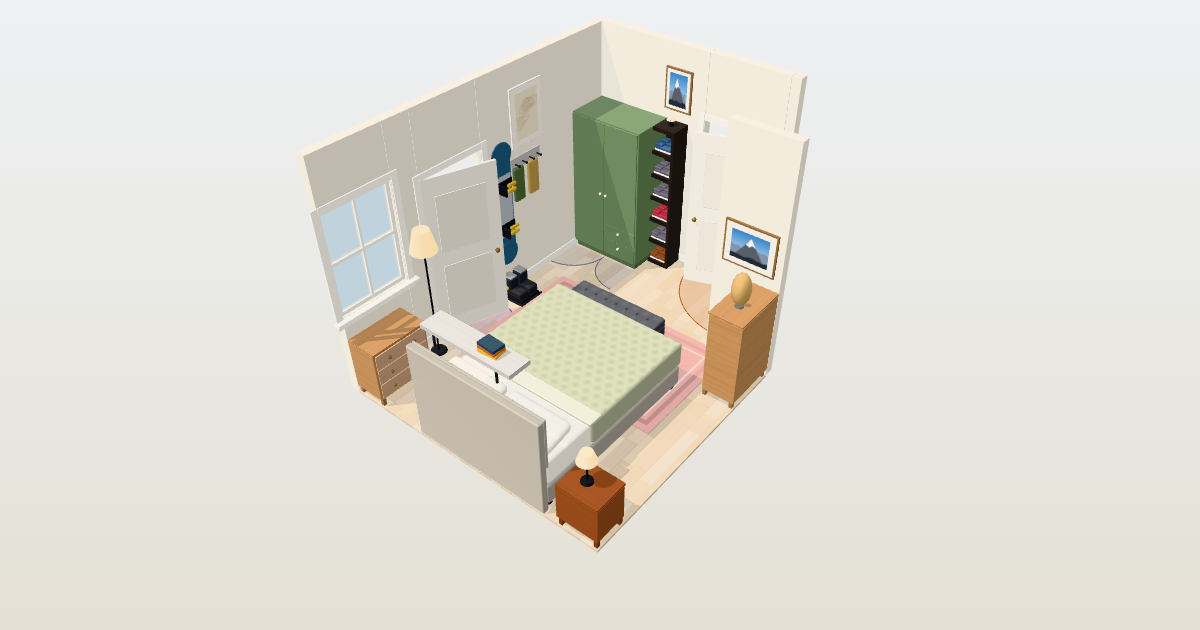
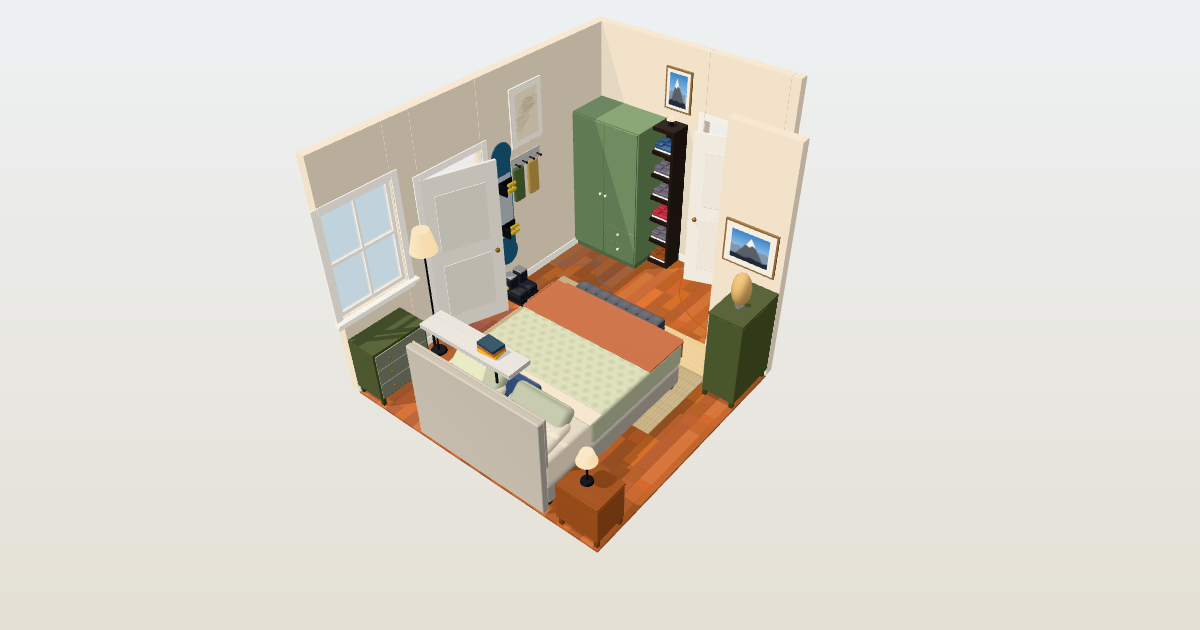
feat(palette): Clay and indigo
The walls stay cream (rented, can't be painted); THEME in core.js holds
the palette. The bed wears Femi's linen sheets and sleeping pillows,
sage shams to match the comforter, an indigo pillow echoing his Adire,
and a terracotta throw folded over the foot. Rugs are natural jute,
the planned chests are painted deep olive (matte, no grain), the bean
bag is terracotta, and the floor matches his orange-brown fir boards.
Previews retaken.

Changed region(s): [[0.2775, 0.3921, 0.6475, 0.8746], [0.4008, 0.754, 0.4317, 0.7841], [0.37, 0.7238, 0.4008, 0.754]]

diff --git a/site/core.js b/site/core.js
@@ -26,7 +26,7 @@ const PRESETS = [
   ["Armchair", 32, 34, 32, 0, "#7fae8f", true, "chair"], ["Rug", 96, 60, 0.5, 0, "#d9a5a0", false, "rug"],
   ["Wall shelf", 36, 8, 2, 60, "#a8a29e", true, "other"], ["Mirror", 24, 1, 60, 12, "#9fc5d8", true, "mirror"],
   ["Floor lamp", 12, 12, 64, 0, "#e3c66b", true, "lamp"], ["Table lamp", 10, 10, 18, 0, "#e3c66b", true, "lamp"], ["Plug-in sconce", 6, 4, 12, 46, "#e3c66b", true, "sconce"],
-  ["Ladder shelf", 24, 16, 72, 0, "#b08a62", true, "ladder"], ["Bean bag", 36, 34, 26, 0, "#a65d3f", true, "beanbag"],
+  ["Ladder shelf", 24, 16, 72, 0, "#b08a62", true, "ladder"], ["Bean bag", 36, 34, 26, 0, "#b5653f", true, "beanbag"],
   ["Snowboard wall rack", 12, 8, 63, 16, "#2f5d7c", true, "board"], ["Snowboard boots on a tray", 14, 15, 12, 0, "#2b2d33", true, "boots"],
   ["Framed art", 24, 1, 30, 50, "#efe4cc", true, "art"], ["Wall hanging", 30, 1, 45, 40, "#3f5f9e", true, "textile"], ["Peg rail with gear", 36, 2, 20, 50, "#c9b592", true, "pegs"],
   ["Custom box", 24, 24, 24, 0, "#bdbdbd", true, "other"]
@@ -34,9 +34,13 @@ const PRESETS = [
 const KINDS = { bed: "Bed", bench: "Bench", ottoman: "Upholstered storage bench", dresser: "Dresser / drawers", wardrobe: "Wardrobe", rack: "Clothes rack", shoe: "Shoe storage",
   nightstand: "Nightstand", shelf: "Shelving", ladder: "Ladder shelf", beanbag: "Bean bag", board: "Snowboard on a wall rack", boots: "Snowboard boots", chair: "Chair", rug: "Rug", mirror: "Mirror",
   art: "Framed art", textile: "Wall hanging", pegs: "Peg rail with gear", lamp: "Lamp", sconce: "Wall sconce", plant: "Plant", other: "Plain box" };
+// Femi's palette, Clay and indigo. The walls are rented cream plaster and can't be painted, so the
+// colour comes from what he owns (sage wardrobe and comforter, wood, cane, black-brown) plus a
+// terracotta throw and bean bag, an indigo pillow echoing his Adire, jute rugs and olive-painted chests.
+const THEME = { name: "Clay and indigo", walls: "#eadfcc", floor: "#9a5530", sheets: "#ddd3c1", throw: "#b5653f", accent: "#2f4a7a" };
 // Starting points that ship with the page.
-const KIND_COLOR = { bed: "#a9ae95", bench: "#a9825a", ottoman: "#4a4d55", dresser: "#b98b5e", wardrobe: "#6b8462", rack: "#9aa3ad", shoe: "#2a2421",
-  nightstand: "#8b4a24", shelf: "#9c7b55", ladder: "#b08a62", beanbag: "#a65d3f", board: "#2f5d7c", boots: "#2b2d33", chair: "#7fae8f", rug: "#d9a5a0", mirror: "#9fc5d8", lamp: "#e3c66b", sconce: "#e3c66b", plant: "#7fae8f",
+const KIND_COLOR = { bed: "#a9ae95", bench: "#a9825a", ottoman: "#4a4d55", dresser: "#4b5638", wardrobe: "#6b8462", rack: "#9aa3ad", shoe: "#2a2421",
+  nightstand: "#8b4a24", shelf: "#9c7b55", ladder: "#b08a62", beanbag: "#b5653f", board: "#2f5d7c", boots: "#2b2d33", chair: "#7fae8f", rug: "#c8b48a", mirror: "#9fc5d8", lamp: "#e3c66b", sconce: "#e3c66b", plant: "#7fae8f",
   art: "#efe4cc", textile: "#3f5f9e", pegs: "#c9b592", other: "#bdbdbd" };
 // [name, kind, x, y, width, depth, height, off floor, headboard side]
 const pc = ([name, kind, x, y, w, d, h, z = 0, headSide = ""], i) => ({ id: kind + i, name, kind, x, y, w, d, h, z, color: KIND_COLOR[kind],
@@ -47,7 +51,7 @@ const BUILTIN = [
     "Bed turned with its head on the east wall and its foot toward the window, so the middle of the room is one open floor. Your green VILHATTEN wardrobe fills the north-west corner facing south, with the black LACK shoe shelf beside it and clear of the door swing. Its doors open onto clear floor: the MALM tall chest starts on the west wall just past them. A ladder shelf leans on the in-push facing south, under the summit photos. Your wood nightstand stands at the head of the bed's open side. The bench sits across the foot of the bed. The snowboard hangs upright on the south wall at the window end of the bench, with its boots on a tray under it, so it sits in the dead end beside the floor lamp. No ceiling light: a floor lamp stands in the window corner, a plug-in swing-arm sconce over the bed's head corner, just above the headboard, is the reading light, and your BÖJA, Mika and PELARBOJ lamps sit on the chest, the nightstand and the top of the shoe shelf. Tightest walkway is 27 in, between the bench and the window wall; the lamp sits at its dead end.", [
     ["Bed", "bed", 43, 98, 86, 66, 24, 0, "E"], [BENCH, "ottoman", 27, 117, 16, 46, 18],
     ["VILHATTEN wardrobe, green", "wardrobe", 0, 0, 38.625, 22.5, 74.75], ["LACK shoe shelf, black-brown", "shoe", 38.625, 0, 11.75, 11, 74.75],
-    ["MALM 6-drawer tall chest", "dresser", 0, 44, 18.875, 31.5, 48.375],
+    ["MALM 6-drawer tall chest, painted olive", "dresser", 0, 44, 18.875, 31.5, 48.375],
     ["Ladder shelf", "ladder", 101, 48, 24, 16, 72], ["Your nightstand, rattan drawer", "nightstand", 112, 81, 17, 17, 22], ["Jute rug 5'3 x 7'7", "rug", 36, 48, 90.5, 63, 0.5],
     ["Floor lamp", "lamp", 1, 151, 12, 12, 64], ["Snowboard wall rack", "board", 14, 156, 12, 8, 63, 16], ["Snowboard boots on a tray", "boots", 13, 149, 14, 15, 12], ["Plug-in swing-arm sconce", "sconce", 125, 99, 4, 6, 12, 46], ["Mika cactus lamp (yours)", "lamp", 116, 85, 8, 8, 15, 22],
     ["BÖJA table lamp (yours)", "lamp", 5.375, 55.875, 8, 8, 16, 48.375], ["PELARBOJ glow lamp (yours)", "lamp", 42.25, 3, 4.5, 4.5, 4, 74.75],
@@ -55,9 +59,9 @@ const BUILTIN = [
   layout("a1", "Corner bed, maximum storage", "most storage",
     "Bed in the south-east corner. Your green VILHATTEN wardrobe in the north-west corner takes hanging clothes with the black LACK shoe shelf beside it, and a 63 in MALM dresser sits under the window and doubles as the nightstand. Bench stays at the foot. The snowboard hangs upright on the east wall in the corner by the in-push, its boots on a tray under it. No ceiling light: a floor lamp stands just north of the bed's foot corner, a plug-in swing-arm sconce on the south wall, just above the headboard's open corner, is the reading light, and your BÖJA and Mika lamps sit on the dresser with the PELARBOJ on top of the shoe shelf. Main walkway is 51 in; the tightest spot is 24 in in front of the wardrobe doors. The bed is reachable from one side only and the north-west corner is furniture-heavy.", [
     ["Bed", "bed", 63, 78, 66, 86, 24, 0, "S"], [BENCH, "ottoman", 64, 62, 46, 16, 18],
-    ["VILHATTEN wardrobe, green", "wardrobe", 0, 0, 38.625, 22.5, 74.75], ["MALM 6-drawer dresser", "dresser", 0, 145.125, 63, 18.875, 30.75],
+    ["VILHATTEN wardrobe, green", "wardrobe", 0, 0, 38.625, 22.5, 74.75], ["MALM 6-drawer dresser, painted olive", "dresser", 0, 145.125, 63, 18.875, 30.75],
     ["LACK shoe shelf, black-brown", "shoe", 38.625, 0, 11.75, 11, 74.75], ["Hook rail", "other", 104, 48, 18.875, 3.5, 5.5, 62],
-    ["Runner rug 30 x 84", "rug", 28, 55, 30, 84, 0.5],
+    ["Jute runner 30 x 84", "rug", 28, 55, 30, 84, 0.5],
     ["Floor lamp", "lamp", 117, 65, 12, 12, 64], ["Snowboard wall rack", "board", 121, 52, 8, 12, 63, 16], ["Snowboard boots on a tray", "boots", 115, 51, 14, 14, 12], ["Plug-in swing-arm sconce", "sconce", 63, 160, 6, 4, 12, 46], ["BÖJA table lamp (yours)", "lamp", 51.875, 150.875, 8, 8, 16, 30.75],
     ["Mika cactus lamp (yours)", "lamp", 4, 150, 8, 8, 15, 30.75], ["PELARBOJ glow lamp (yours)", "lamp", 42.25, 3, 4.5, 4.5, 4, 74.75],
     ["Yosemite panorama", "art", 72, 163, 48, 1, 32, 54], ["Trip photo grid", "art", 8, 163, 48, 1, 28, 38], ["Adire wall hanging", "textile", 128, 90, 1, 30, 40, 48], ["Framed topo map", "art", 0, 53, 1, 24, 28, 44], ["Summit photo", "art", 37.5, 0, 14, 1, 20, 80]]),
@@ -65,9 +69,9 @@ const BUILTIN = [
     "Bed stays almost where it is, so you can get in from either side: 38 in on the west (22 in beside the low chest under the window), 25 in on the east. Your green VILHATTEN wardrobe in the north-west corner with the black LACK shoe shelf beside it, a narrow KULLEN 5-drawer chest south of the in-push, a low KULLEN 3-drawer chest under the window, a nightstand and a shelf over the headboard. The snowboard hangs upright on the west wall just north of the closet door, its boots on a tray under it. No ceiling light: a pair of plug-in swing-arm sconces sit just above the headboard's two corners, a floor lamp stands on the west wall between the closet door and the window, and your BÖJA, Mika and PELARBOJ lamps sit on the tall chest, the nightstand and the top of the shoe shelf. Bench keeps its place at the foot. Tightest walkway is 22 in.", [
     ["Bed", "bed", 38, 78, 66, 86, 24, 0, "S"], [BENCH, "ottoman", 39, 62, 46, 16, 18],
     ["VILHATTEN wardrobe, green", "wardrobe", 0, 0, 38.625, 22.5, 74.75], ["LACK shoe shelf, black-brown", "shoe", 38.625, 0, 11.75, 11, 74.75],
-    ["KULLEN 5-drawer chest", "dresser", 113.25, 48, 15.75, 27.5, 44.125], ["KULLEN 3-drawer chest", "dresser", 0, 136.5, 15.75, 27.5, 28.375], ["MALM 2-drawer nightstand", "nightstand", 110.125, 148.25, 18.875, 15.75, 21.625],
+    ["KULLEN 5-drawer chest, painted olive", "dresser", 113.25, 48, 15.75, 27.5, 44.125], ["KULLEN 3-drawer chest, painted olive", "dresser", 0, 136.5, 15.75, 27.5, 28.375], ["MALM 2-drawer nightstand", "nightstand", 110.125, 148.25, 18.875, 15.75, 21.625],
     ["Wall shelf over bed", "other", 49, 153.75, 43.25, 10.25, 2, 60], ["Hook rail", "other", 0, 46.5, 3.5, 18.875, 5.5, 62],
-    ["Rug 60 x 96", "rug", 14, 48, 96, 60, 0.5], ["Snowboard wall rack", "board", 0, 66, 8, 12, 63, 16], ["Snowboard boots on a tray", "boots", 0, 65, 15, 14, 12],
+    ["Jute rug 60 x 96", "rug", 14, 48, 96, 60, 0.5], ["Snowboard wall rack", "board", 0, 66, 8, 12, 63, 16], ["Snowboard boots on a tray", "boots", 0, 65, 15, 14, 12],
     ["Floor lamp", "lamp", 1, 119, 12, 12, 64], ["Plug-in swing-arm sconce", "sconce", 38, 160, 6, 4, 12, 46], ["Plug-in swing-arm sconce", "sconce", 98, 160, 6, 4, 12, 46],
     ["BÖJA table lamp (yours)", "lamp", 116.875, 60.875, 8, 8, 16, 44.125], ["Mika cactus lamp (yours)", "lamp", 114, 152, 8, 8, 15, 21.625], ["PELARBOJ glow lamp (yours)", "lamp", 42.25, 3, 4.5, 4.5, 4, 74.75],
     ["Park print", "art", 52, 163, 18, 1, 22, 63], ["Park print", "art", 73, 163, 18, 1, 22, 63], ["Adire wall hanging", "textile", 128, 85, 1, 30, 45, 40], ["Framed topo map", "art", 0, 44, 1, 20, 28, 72], ["Summit photos", "art", 102, 48, 24, 1, 20, 50], ["Summit photo", "art", 37.5, 0, 14, 1, 20, 80]])

diff --git a/site/index.html b/site/index.html
@@ -220,7 +220,7 @@ const grainTex = canvasTex(256, 256, (g, w, h) => {
 });
 const wood = c => cached("w" + col(c).getHexString(), () => new THREE.MeshStandardMaterial({ color: col(c), roughness: 0.62, map: grainTex }));
 const METAL = M("#b9bdc2", 0.3, 0.9), DARK_METAL = M("#3a3b3f", 0.4, 0.8), BRASS = M("#b08d57", 0.35, 0.85);
-const TRIM = M("#fbfaf6", 0.55), WALL = M("#f1ede3", 0.95), LINEN = M("#f4f1ea", 0.95);
+const TRIM = M("#fbfaf6", 0.55), WALL = M(THEME.walls, 0.95);
 const MIRROR = new THREE.MeshStandardMaterial({ color: 0xe6edf2, roughness: 0.03, metalness: 1, envMapIntensity: 2.2 });
 const GLASS = new THREE.MeshStandardMaterial({ color: 0xcfe8f5, roughness: 0.05, metalness: 0.2, transparent: true, opacity: 0.28 });
 const SKY = new THREE.MeshBasicMaterial({ color: 0xd9ecf7 });
@@ -593,30 +593,40 @@ function fronts(g, width, y0, y1, z, rows, cols, m, handle) {
     if (handle === "pull") bxm(g, cw * 0.4, 0.5, 0.7, x, y + ch - 2.4, z + 0.7, DARK_METAL);
   }
 }
-function chest(g, { a, dp, h, c }, leg, maxRows) {
-  const body = wood(c);
-  for (const sx of [-1, 1]) for (const sz of [-1, 1]) bxm(g, 1.6, leg, 1.6, sx * (a / 2 - 1.4), 0, sz * (dp / 2 - 1.4), wood(shade(c, -0.35)));
-  bxm(g, a, h - leg - 1, dp - 0.7, 0, leg, -0.35, body);
-  bxm(g, a, 1, dp, 0, h - 1, 0, wood(shade(c, -0.12)), 0.2);
-  fronts(g, a - 1.2, leg + 0.6, h - 1.5, dp / 2 - 0.7, clamp(Math.round((h - leg) / 9), 1, maxRows), a > 44 ? 2 : 1, wood(shade(c, 0.14)), "knob");
+function chest(g, { a, dp, h, c, name }, leg, maxRows) {
+  const surface = /painted/.test(name) ? k => M(shade(c, k), 0.7) : k => wood(shade(c, k)); // paint is matte, with no grain
+  for (const sx of [-1, 1]) for (const sz of [-1, 1]) bxm(g, 1.6, leg, 1.6, sx * (a / 2 - 1.4), 0, sz * (dp / 2 - 1.4), surface(-0.35));
+  bxm(g, a, h - leg - 1, dp - 0.7, 0, leg, -0.35, surface(0));
+  bxm(g, a, 1, dp, 0, h - 1, 0, surface(-0.12), 0.2);
+  fronts(g, a - 1.2, leg + 0.6, h - 1.5, dp / 2 - 0.7, clamp(Math.round((h - leg) / 9), 1, maxRows), a > 44 ? 2 : 1, surface(0.14), "knob");
 }
 const clamp = (v, lo, hi) => Math.min(Math.max(v, lo), hi);
 
 const MODELS = {
-  // Femi's bed: grey upholstered frame and channel-tufted headboard, white sheets, a sage quilted comforter.
+  // Femi's bed: grey upholstered frame and channel-tufted headboard, linen sheets and pillows, a sage
+  // quilted comforter with shams to match, and the palette's indigo pillow and terracotta throw.
   bed(g, { it, a, dp, h, c }) {
     const hb = it.headH > 0 ? Math.min(it.headT, dp) : 0, len = dp - hb, zc = hb / 2, foot = zc + len / 2;
     const legH = Math.min(3, h * 0.12), railH = Math.min(10, h * 0.4), frame = fabricMat(BED_FABRIC), legs = M("#2a2a2c", 0.6);
     for (const sx of [-1, 1]) for (const sz of [-1, 1]) bxm(g, 2, legH, 2, sx * (a / 2 - 2.5), 0, zc + sz * (len / 2 - 2.5), legs);
     bxm(g, a, railH, len, 0, legH, zc, frame, 1.2);
     const mBot = legH + railH - 1.5, mh = Math.max(h - mBot, 2);
-    bxm(g, a - 2, mh, len - 2, 0, mBot, zc, LINEN, 1.8);
+    const sheets = M(THEME.sheets, 0.95);
+    bxm(g, a - 2, mh, len - 2, 0, mBot, zc, sheets, 1.8);
     const dl = len * 0.7, side = M(c, 0.95);
     const duvet = bxm(g, a + 0.8, mh * 0.8 + 1.2, dl, 0, h - mh * 0.8, foot - dl / 2 + 0.3, side, 1.6);
     duvet.material = [side, side, quiltMat(c, (a + 0.8) / dl), side, side, side];
-    bxm(g, a + 1, 1.4, 7, 0, h + 0.5, foot - dl + 2, M(shade(c, 0.3), 0.95), 0.6); // turned-down top edge
-    const pw = (a - 9) / 2;
-    for (const sx of [-1, 1]) bxm(g, pw, 5, 16, sx * (pw / 2 + 1.5), h - 0.4, zc - len / 2 + 10, LINEN, 2.2).rotation.x = -0.22;
+    bxm(g, a + 1, 1.4, 7, 0, h + 0.5, foot - dl + 2, sheets, 0.6); // sheet turned down over the comforter
+    // sleeping pillows in linen, the comforter's shams leaning in front, and one indigo pillow
+    const pw = (a - 9) / 2, head = zc - len / 2, shams = M(c, 0.95);
+    for (const sx of [-1, 1]) bxm(g, pw, 5, 16, sx * (pw / 2 + 1.5), h - 0.4, head + 10, sheets, 2.2).rotation.x = -0.22;
+    for (const sx of [-1, 1]) bxm(g, pw - 2, 5.5, 15, sx * (pw / 2 + 1.5), h + 1.2, head + 15, shams, 2.4).rotation.x = -0.75;
+    bxm(g, Math.min(20, a * 0.32), 4.5, 10, 0, h + 1.6, head + 20, fabricMat(THEME.accent), 2).rotation.x = -0.6;
+    // a throw folded across the foot: a layer on top, a drape down the foot end and a tail over one side
+    const tl = len * 0.28, cloth = fabricMat(THEME.throw), drop = Math.min(10, h * 0.4);
+    bxm(g, a + 1.6, 0.9, tl, 0, h + 1.2, foot - tl / 2 + 0.3, cloth, 0.4);
+    bxm(g, a * 0.94, drop, 0.9, -a * 0.03, h + 2.1 - drop, foot + 0.75, cloth, 0.4);
+    bxm(g, 0.9, drop + 4, tl * 0.75, a / 2 + 1.25, h + 2.1 - drop - 4, foot - tl * 0.45, cloth, 0.4);
     if (hb) {
       bxm(g, a, it.headH, hb, 0, 0, -dp / 2 + hb / 2, frame, 0.8);
       const padH = it.headH - h + 2, pad = bxm(g, a - 0.4, padH, 1.2, 0, h - 2, -dp / 2 + hb + 0.6, frame, 0.5);
@@ -950,13 +960,15 @@ const doorOpen = {}; // opening id -> { t: how far open, 0..1, want: 0 or 1 }
 const show = { grid: false, swings: true, names: false, lamps: false };
 let wallMode = "auto";
 
-const floorMat = new THREE.MeshStandardMaterial({ roughness: 0.55, map: (() => {
+// Old-growth fir boards, a warm orange-brown with a soft sheen, as in Femi's photos.
+const floorMat = new THREE.MeshStandardMaterial({ roughness: 0.4, map: (() => {
   const t = canvasTex(1024, 1024, (g, w, h) => {
-    const r = rng("floor"), rows = 8, ph = h / rows;
+    const r = rng("floor"), rows = 8, ph = h / rows, fir = col(THEME.floor).getHSL({}, THREE.SRGBColorSpace);
     for (let i = 0; i < rows; i++) {
       for (let x = -r() * w * 0.5; x < w;) {
         const len = w * (0.35 + r() * 0.4);
-        g.fillStyle = `hsl(${32 + r() * 6} ${24 + r() * 8}% ${70 + r() * 8}%)`; g.fillRect(x, i * ph, len, ph);
+        // each board varies a little around THEME.floor
+        g.fillStyle = `hsl(${fir.h * 360 - 3 + r() * 6} ${fir.s * 100 - 5 + r() * 10}% ${fir.l * 100 - 3 + r() * 9}%)`; g.fillRect(x, i * ph, len, ph);
         g.strokeStyle = "rgba(60,35,15,.10)";
         for (let k = 0; k < 5; k++) { const y = i * ph + r() * ph; g.beginPath(); g.moveTo(x, y); g.lineTo(x + len, y + (r() - 0.5) * 6); g.stroke(); }
         g.fillStyle = "rgba(40,25,10,.35)"; g.fillRect(x, i * ph, 2, ph);

diff --git a/README.md b/README.md
@@ -19,6 +19,10 @@ A planner for Femi's San Francisco bedroom, built from his own measurements. Inc
   LACK wall shelf unit beside it as the shoe shelf (11¾ × 11 × 74¾), the grey upholstered bed with a
   channel-tufted headboard under a sage pinch-quilted comforter, his wood nightstand with a cane
   drawer (17 × 17 × 22, estimated from a photo), and the BÖJA woven bamboo egg lamp (8 × 16).
+- **Palette, Clay and indigo** (`THEME` in `core.js`): the walls stay cream, because the room is
+  rented and Femi can't paint them. Colour comes from what he owns plus a terracotta throw over the
+  foot of the bed, an indigo pillow that echoes his Adire hanging, jute rugs and chests painted deep
+  olive. His sheets and sleeping pillows are linen; the shams match the sage comforter.
 - **Gear:** every ready-made layout hangs Femi's snowboard upright on a wall rack, bindings on,
   with his boots on a tray under it. A board's model lies flat instead when it is wider than tall.
   The furniture list also offers a leaning ladder shelf, which the window layout uses on the
